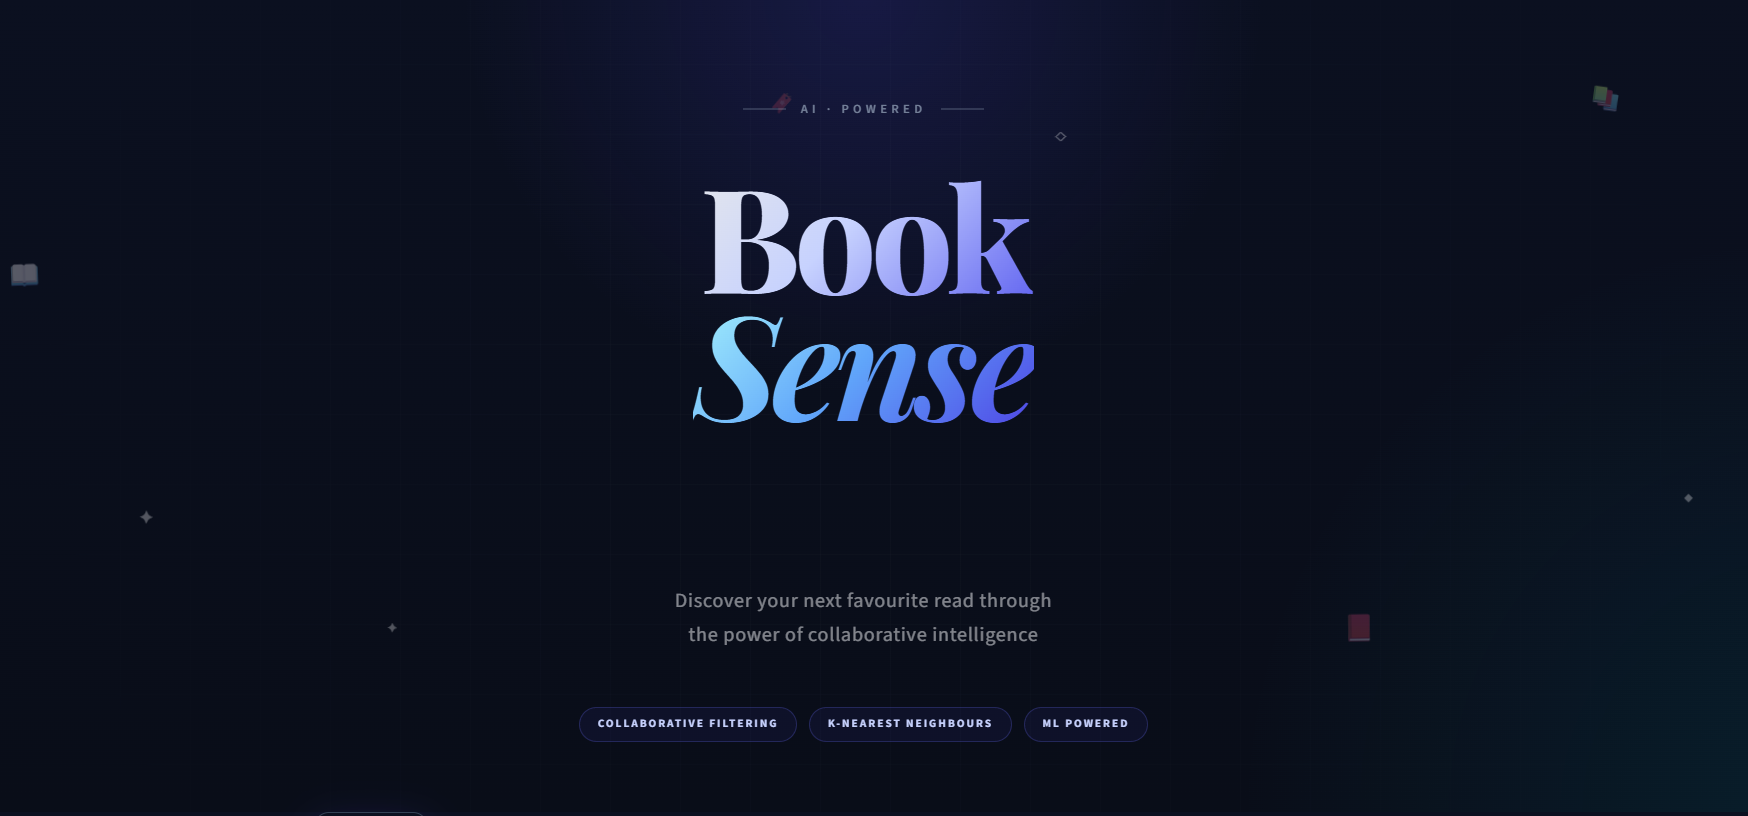
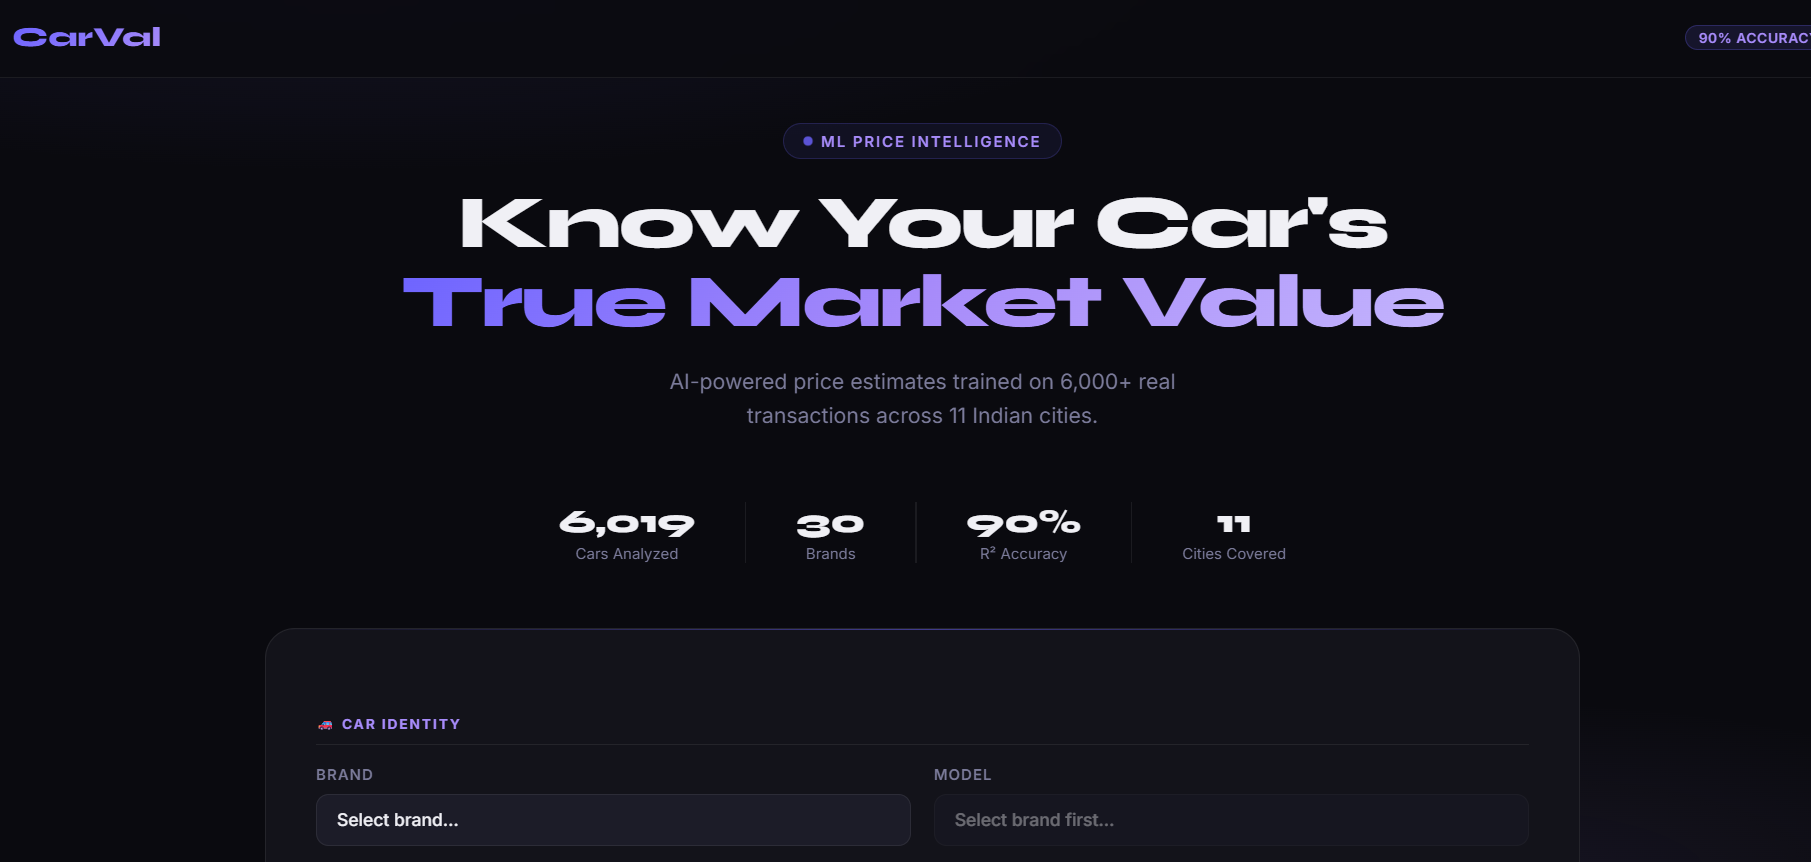
Update project image asset and constants

diff --git a/src/constants/index.js b/src/constants/index.js
@@ -288,7 +288,7 @@ const WORK_LOCATION = {
     // ▶ Project 3
     {
       id: 7,
-      name: "BookSense",
+      name: "CarVal",
       icon: "/images/folder.png",
       kind: "folder",
       position: "top-10 left-80",
@@ -296,20 +296,20 @@ const WORK_LOCATION = {
       children: [
         {
           id: 1,
-          name: "BookSense.txt",
+          name: "CarVal.txt",
           icon: "/images/txt.png",
           kind: "file",
           fileType: "txt",
           position: "top-5 left-10",
           description: [
-            "BookSense is a comprehensive book recommendation platform that leverages AI to provide personalized reading suggestions.",
-            "It features a user-friendly interface.",
-            "Built with Streamlit, it offers a seamless experience for book lovers and readers.",
-          ],
+  "CarVal is a car price estimation web app that predicts used car market value across 11 Indian cities using a Gradient Boosting ML model trained on 6,019 real listings.",
+  "Achieves 90% R² accuracy (10-fold cross-validated) with 81% of predictions falling within ₹2 lakh of actual price across 30 brands and 1,800+ models.",
+  "Features auto-fill specs, real-time market comparison (low/avg/high price bands), and a live price meter — built with Flask and deployed on Render.",
+],
         },
         {
           id: 2,
-          name: "BookSense.com",
+          name: "CarVal.com",
           icon: "/images/safari.png",
           kind: "file",
           fileType: "url",
@@ -318,7 +318,7 @@ const WORK_LOCATION = {
         },
         {
           id: 4,
-          name: "BookSense.png",
+          name: "CarVal.png",
           icon: "/images/image.png",
           kind: "file",
           fileType: "img",